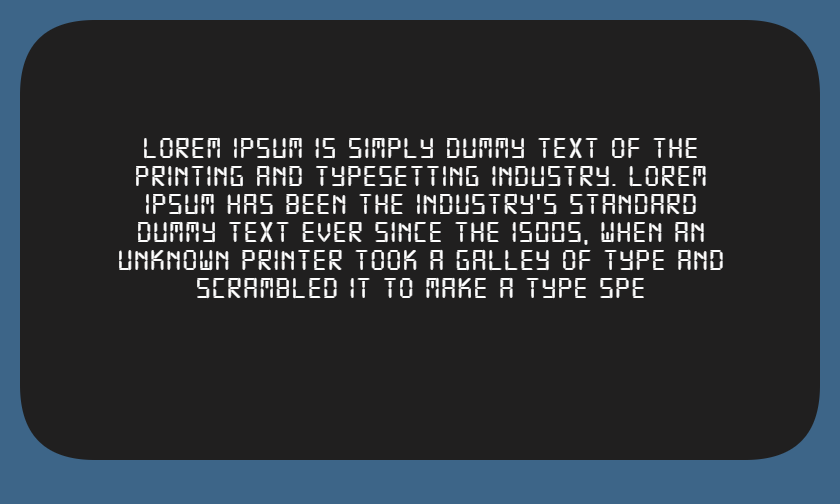
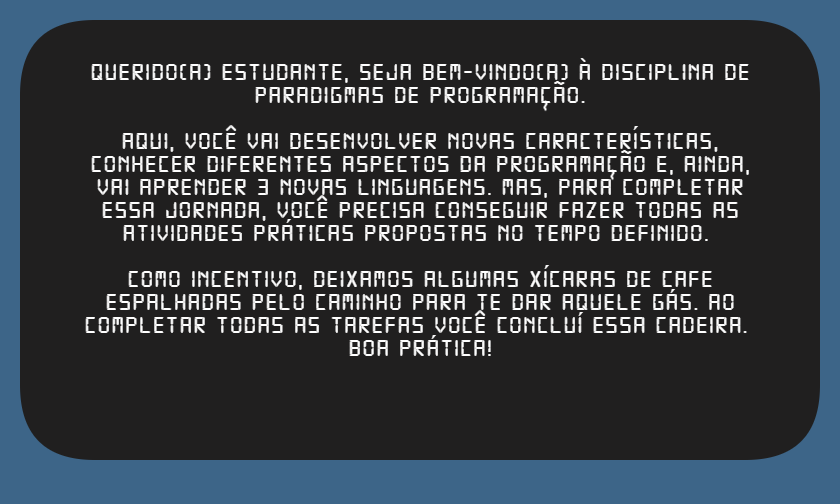
tela história

Changed region(s): [[0.0929, 0.2381, 0.8976, 0.7143], [0.0929, 0.119, 0.8976, 0.2083]]

diff --git a/Game/core/src/com/paradigmas/game/resource/Assets.java b/Game/core/src/com/paradigmas/game/resource/Assets.java
@@ -35,6 +35,7 @@ public class Assets {
     @Asset public static final AssetDescriptor<Texture> comandos_background_002 = new AssetDescriptor<>("Mapa_Texturas/comandos_background.png", Texture.class);
     @Asset public static final AssetDescriptor<Texture> final_background_001 = new AssetDescriptor<>("Mapa_Texturas/final_background_001.png", Texture.class);
     @Asset public static final AssetDescriptor<Texture> base_background = new AssetDescriptor<>("Mapa_Texturas/base_background.png", Texture.class);
+    @Asset public static final AssetDescriptor<Texture> story_background = new AssetDescriptor<>("Mapa_Texturas/historia_background.png", Texture.class);
 
     // next fase
     @Asset public static final AssetDescriptor<Texture> nextfase_background_001 = new AssetDescriptor<>("Mapa_Texturas/nextfase_background_001.png", Texture.class);

diff --git a/Game/core/src/com/paradigmas/game/ParadigmasGame.java b/Game/core/src/com/paradigmas/game/ParadigmasGame.java
@@ -9,7 +9,7 @@ import com.paradigmas.game.screen.PreloadScreen;
 public class ParadigmasGame extends Game {
     private static ParadigmasGame instance;
     public static final String NAME = "Paradigmas Simulator";
-    public static final boolean DEBUG = true; // muda para true para debugar
+    public static final boolean DEBUG = false; // muda para true para debugar
     public static final int SCREEN_WIDTH = 840;
     public static final int SCREEN_HEIGHT = 504;
     public static final int LEVEL_MAX = 6;

diff --git a/Game/core/src/com/paradigmas/game/screen/StoryScreen.java b/Game/core/src/com/paradigmas/game/screen/StoryScreen.java
@@ -32,7 +32,7 @@ public class StoryScreen extends ScreenAdapter  {
         stage = new Stage(new FitViewport(ParadigmasGame.SCREEN_WIDTH, ParadigmasGame.SCREEN_HEIGHT));
         Gdx.input.setInputProcessor(stage);
 
-        backgroundTexture = Assets.manager.get(Assets.base_background);
+        backgroundTexture = Assets.manager.get(Assets.story_background);
         Image background = new Image(backgroundTexture);
         stage.addActor(background);
 
